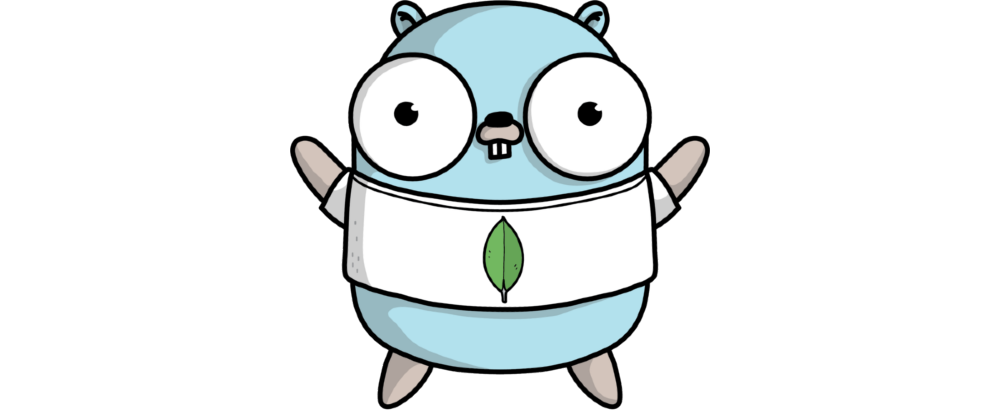
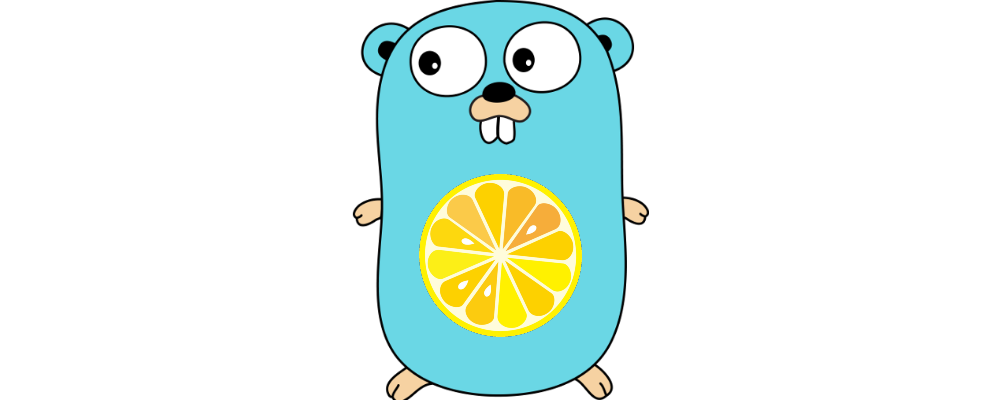
fix: 41 cover photo

Changed region(s): [[0.279, 0.0, 0.713, 1.0]]

diff --git a/41. Create a webapp with fizz/source_code/internal/server/controllers/maintenance_controllers.go b/41. Create a webapp with fizz/source_code/internal/server/controllers/maintenance_controllers.go
@@ -10,7 +10,6 @@ import (
 	"gitlab.com/hmajid2301/articles/example-fizz-project/internal/server/models"
 )
 
-// Healthcheck checks if the API is healthy.
 func Healthcheck(_ *gin.Context) (*models.Healthcheck, error) {
 	host := "example.com"
 	port := "80"

diff --git a/41. Create a webapp with fizz/source_code/internal/server/models/params.go b/41. Create a webapp with fizz/source_code/internal/server/models/params.go
@@ -1,6 +1,5 @@
 package models
 
-// PetParams is the params from request.
 type PetParams struct {
 	Name string `query:"name"`
 }

diff --git a/41. Create a webapp with fizz/README.md b/41. Create a webapp with fizz/README.md
@@ -4,10 +4,12 @@ tags: ["golang", "web-app", "fizz", "gin", "openapi"]
 license: "public-domain"
 slug: "golang-fizz-web-app"
 canonical_url: "https://haseebmajid.dev/blog/golang-fizz-web-app/"
-date: "2021-01-23"
+date: "2021-01-19"
 published: true
 cover_image: "images/cover.png"
 ---
+
+> Cover Photo from [Clipartmax](https://www.clipartmax.com/middle/m2i8m2K9G6K9N4d3_learn-golang-in-your-own-sandbox-golang-gopher/) and [Fizz Logo](https://github.com/wI2L/fizz)
 
 # Background
 
@@ -102,8 +104,14 @@ The Fizz library abstracts away routing partially for us, more on this later.
 This folder contains all the data structure and data types that will be received by the application
 from the client or sent back to the client from the application. For example:
 
-```go:title=internal/server/models/pets.go file=./source_code/internal/server/models/pets.go
+```go
+package models
 
+type Pet struct {
+	Name  string `json:"name"`
+	Price int    `json:"price"`
+	Breed string `json:"breed"`
+}
 ```
 
 This will be the object sent back to the client when they request to get a pet. Note the use of struct tags
@@ -111,14 +119,24 @@ This will be the object sent back to the client when they request to get a pet. 
 field will look for the `name` field in the JSON file. Later on we will see why we need to specify struct tags and not
 just us being explicit.
 
-```go:title=internal/server/models/params.go file=./source_code/internal/server/models/params.go
+```go
+package models
 
+type PetParams struct {
+	Name string `query:"name"`
+}
 ```
 
 Note the struct tag in this example is `query` and not `json` because it's used as a query parameter.
 We also have one final type of model to take a look at:
 
-```go:title=internal/server/models/input.go file=./source_code/internal/server/models/input.go
+```go
+package models
+
+type PetInput struct {
+	PetParams
+	Pet
+}
 
 ```
 
@@ -130,8 +148,33 @@ we will see exactly how we use this model a bit later.
 The controllers folder contains the main web service logic for the application. It contains the one function for every
 route/endpoint you have in your application. Let's take a look at the maintenance controller first
 
-```go:title=internal/server/controllers/maintenance_controllers.go file=./source_code/internal/server/controllers/maintenance_controllers.go
+```go
+package controllers
 
+import (
+	"net"
+	"time"
+
+	"github.com/gin-gonic/gin"
+	"github.com/juju/errors"
+
+	"gitlab.com/hmajid2301/articles/example-fizz-project/internal/server/models"
+)
+
+func Healthcheck(_ *gin.Context) (*models.Healthcheck, error) {
+	host := "example.com"
+	port := "80"
+	timeout := time.Duration(1 * time.Second)
+	_, healthy := net.DialTimeout("tcp", host+":"+port, timeout)
+
+	if healthy != nil {
+		return &models.Healthcheck{}, errors.Errorf("Healthcheck Failed!")
+	}
+
+	return &models.Healthcheck{
+		Message: "The API is healthy.",
+	}, nil
+}
 ```
 
 So we have defined a new function, which receives a single argument the gin context (which we don't use, hence the `_`).
@@ -150,13 +193,40 @@ The second is an `error`, again we will see how errors are handled a bit later.
 
 Let's now take a look at the pets controller.
 
-```go:title=internal/server/controllers/pets_controller.go file=./source_code/internal/server/controllers/pets_controller.go
+```go
+package controllers
 
+import (
+	"github.com/gin-gonic/gin"
+	"github.com/juju/errors"
+	"gitlab.com/hmajid2301/articles/example-fizz-project/internal/server/models"
+)
+
+func GetPet(_ *gin.Context, params *models.PetParams) (models.Pet, error) {
+	if params.Name != "bob" {
+		return models.Pet{}, errors.NotFoundf("Pet %s", params.Name)
+	}
+
+	return models.Pet{
+		Name:  "bob",
+		Price: 100,
+		Breed: "bengal",
+	}, nil
+
+}
+
+func UpdatePet(_ *gin.Context, input *models.PetInput) (models.Pet, error) {
+	if input.PetParams.Name != "bob" {
+		return models.Pet{}, errors.NotFoundf("Pet %s", input.PetParams.Name)
+	}
+
+	return input.Pet, nil
+}
 ```
 
 The first function:
 
-```go:title=internal/server/controllers/pets_controller.go
+```go
 func GetPet(_ *gin.Context, params *models.PetParams) (models.Pet, error) {
 	if params.Name != "bob" {
 		return models.Pet{}, errors.NotFoundf("Pet %s", params.Name)
@@ -181,7 +251,7 @@ reality you would look in your data store for information about the pet.
 
 The second function looks like:
 
-```go:title=internal/server/controllers/pets_controller.go
+```go
 func UpdatePet(_ *gin.Context, input *models.PetInput) (models.Pet, error) {
 	if input.PetParams.Name != "bob" {
 		return models.Pet{}, errors.NotFoundf("Pet %s", input.PetParams.Name)
@@ -214,7 +284,7 @@ example of how we can use Fizz, with more complicated HTTP requests.
 This file is where we link the routes to their specific handler functions (using Tonic). This is also where we
 provide most of the data that will be used to populate the OAS file.
 
-```go:title=internal/server/routes.go
+```go
 func NewRouter() (*fizz.Fizz, error) {
 	engine := gin.New()
 
@@ -257,7 +327,7 @@ func NewRouter() (*fizz.Fizz, error) {
 
 Let's break this function down:
 
-```go:title=internal/server/routes.go
+```go
 	engine := gin.New()
 
 	engine.Use(cors.Default())
@@ -281,7 +351,7 @@ Note we could change the path if we wanted and serve
 a YAML file as well `fizzApp.GET("/openapi", nil, fizzApp.OpenAPI(infos, "yaml"))`. Here we removed the
 extension and changed the generated file so that we will serve the client a YAML file.
 
-```go:title=internal/server/routes.go
+```go
 	group := fizzApp.Group("", "endpoints", "All of the endpoints.")
 	group.GET("/healthcheck", []fizz.OperationOption{
 		fizz.Summary("Checks API is healthy."),
@@ -303,7 +373,7 @@ extension and changed the generated file so that we will serve the client a YAML
 Next, let's get to the part of the function where we define our routes. First, we create a group, this will group the
 routes within the OAS (such as the tag).
 
-```go:title=internal/server/routes.go
+```go
 	group.GET("/pets:name", []fizz.OperationOption{
 		fizz.Summary("Get a pet by name."),
 		fizz.Response(fmt.Sprint(http.StatusInternalServerError), "Server Error", models.APIError{}, nil, nil),
@@ -321,7 +391,7 @@ choose the `GetPet` function we mentioned earlier and on a successful response w
 
 You can define whichever status code you want here such as an `http.StatusCreated` or `http.NoContent`.
 
-```go:title=internal/server/routes.go
+```go
 	if len(fizzApp.Errors()) != 0 {
 		return nil, fmt.Errorf("fizz errors: %v", fizzApp.Errors())
 	}
@@ -333,7 +403,7 @@ The final part of the function checks if Fizz returned any errors and sets up th
 any of the Tonic function handler return an error. As we saw earlier with some of the functions
 returning errors.
 
-```go:title=internal/server/routes.go
+```go
 func errHook(_ *gin.Context, e error) (int, interface{}) {
 	code, msg := http.StatusInternalServerError, http.StatusText(http.StatusInternalServerError)
 
